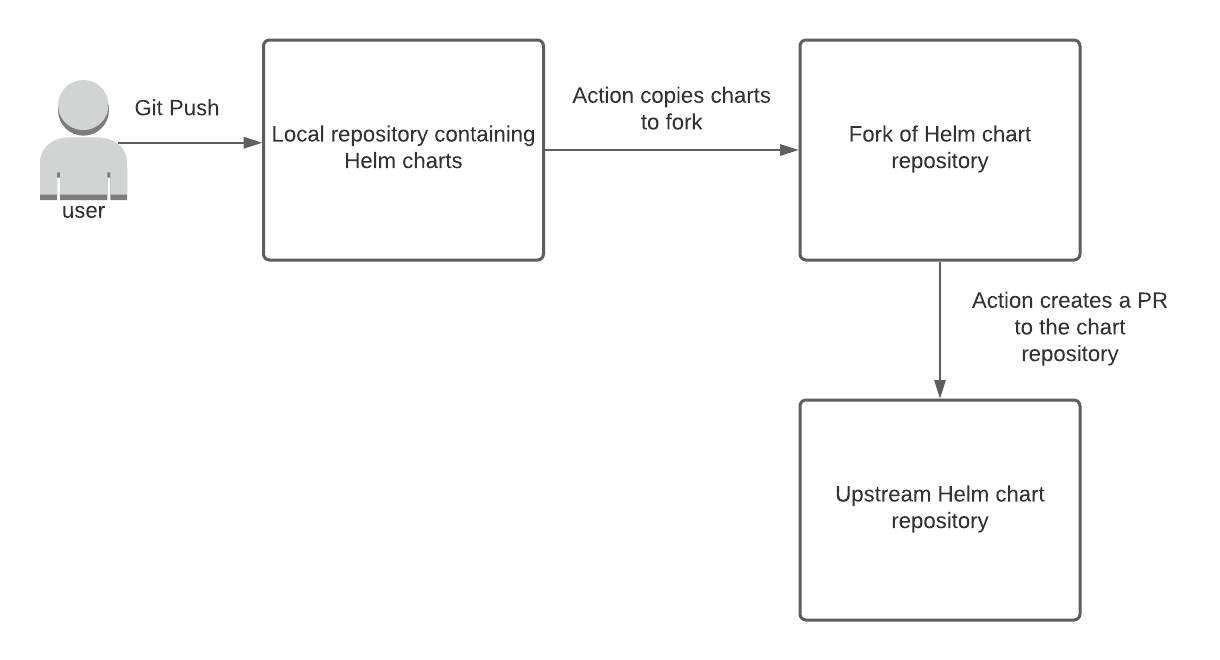
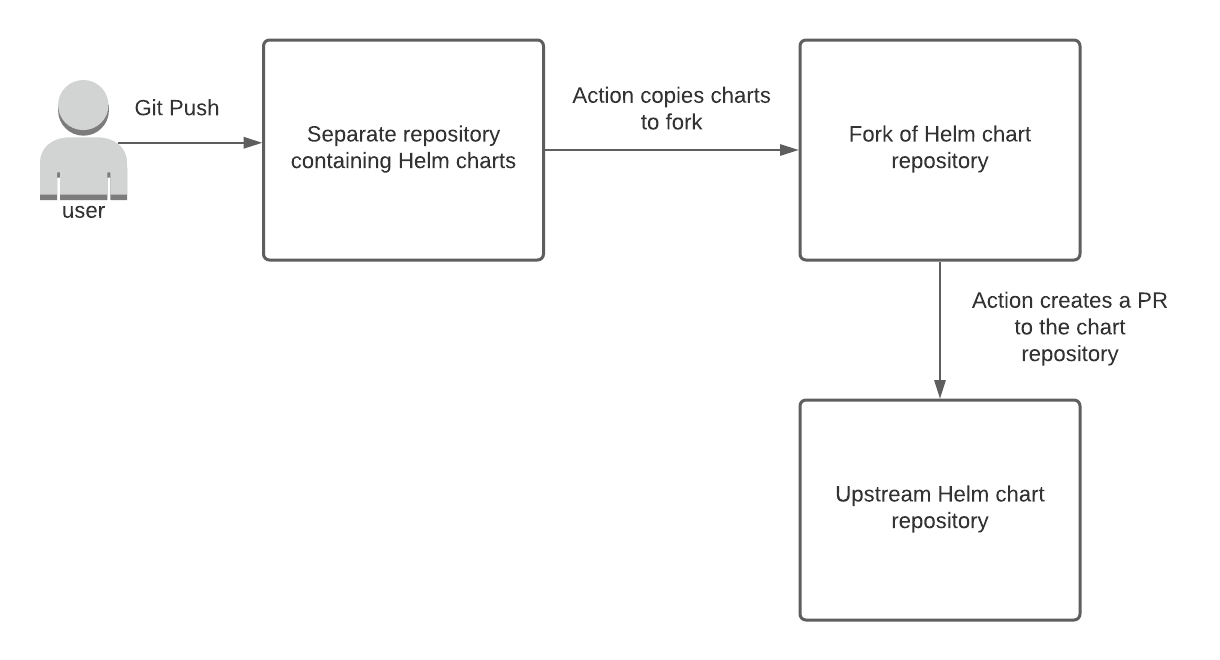
updating readme

Changed region(s): [[0.218, 0.1818, 0.4361, 0.2727]]

diff --git a/README.md b/README.md
@@ -1,5 +1,5 @@
 # chart-repo-pr-action
-This action is used to copy local Helm charts to a central Helm chart repository by submitting a PR to the chart repository. The below diagram depicts the intended usage of this Action.
+This action is used to copy Helm charts to a central Helm chart repository by submitting a PR to the chart repository. The below diagram depicts the intended usage of this Action.
 
 ![Diagram of chart-repo-pr-action](./images/chart-repo-pr-action.png)
 
@@ -9,7 +9,7 @@ You might be interested in this Action if you:
 * Would like to publish your chart(s) to an upstream chart repository
 * Would _not_ like to move your Helm chart out of your repository
 
-This action allows you to sync local Helm charts to an upstream chart repository without requiring you to move or copy your Helm charts manually. It copies your charts to a chart repository fork and makes a PR to the chart repository in an automated and idempotent fashion.
+This action allows you to sync Helm charts in a separate repository to an upstream chart repository without requiring you to move or copy your Helm charts manually. It copies your charts to a chart repository fork and makes a PR to the chart repository in an automated and idempotent fashion.
 
 Interested? Read on to learn how to use this Action.
 
